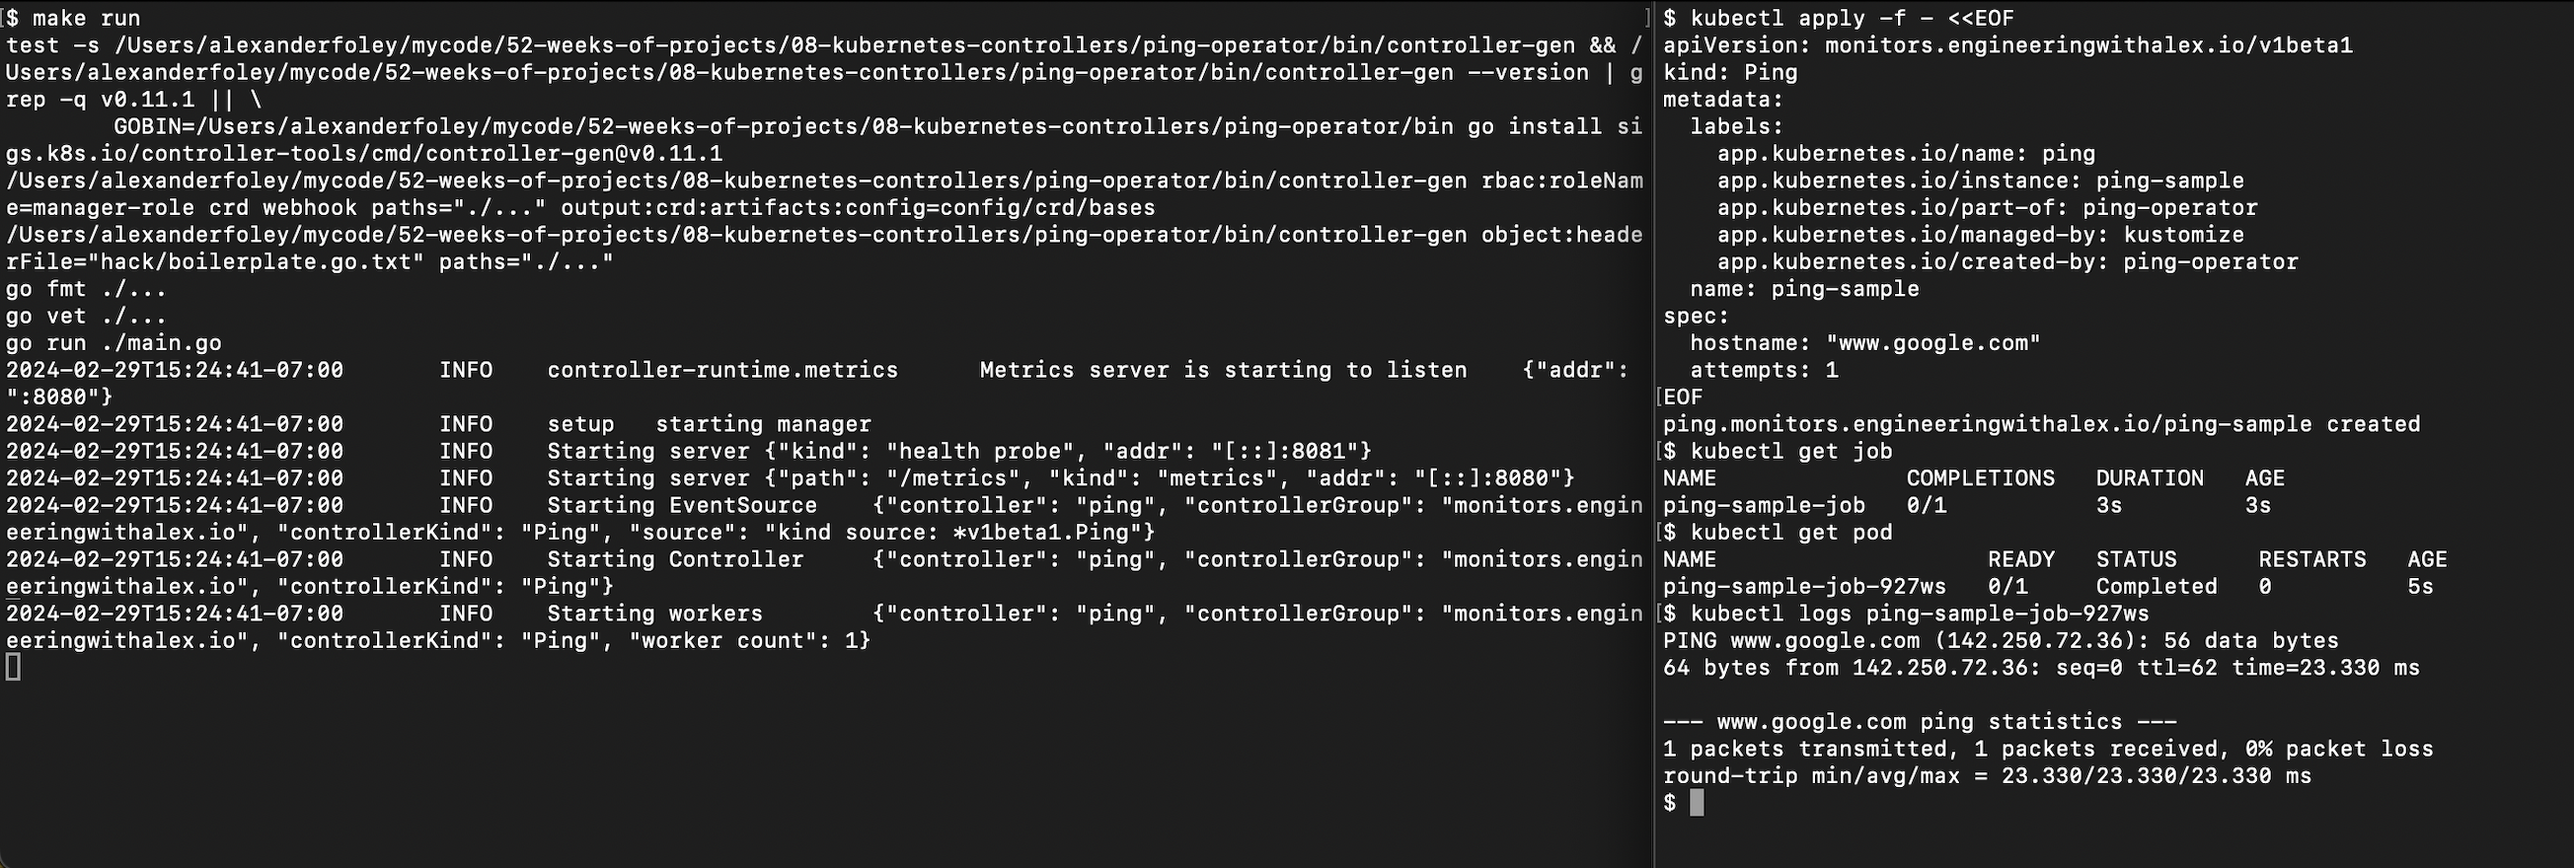
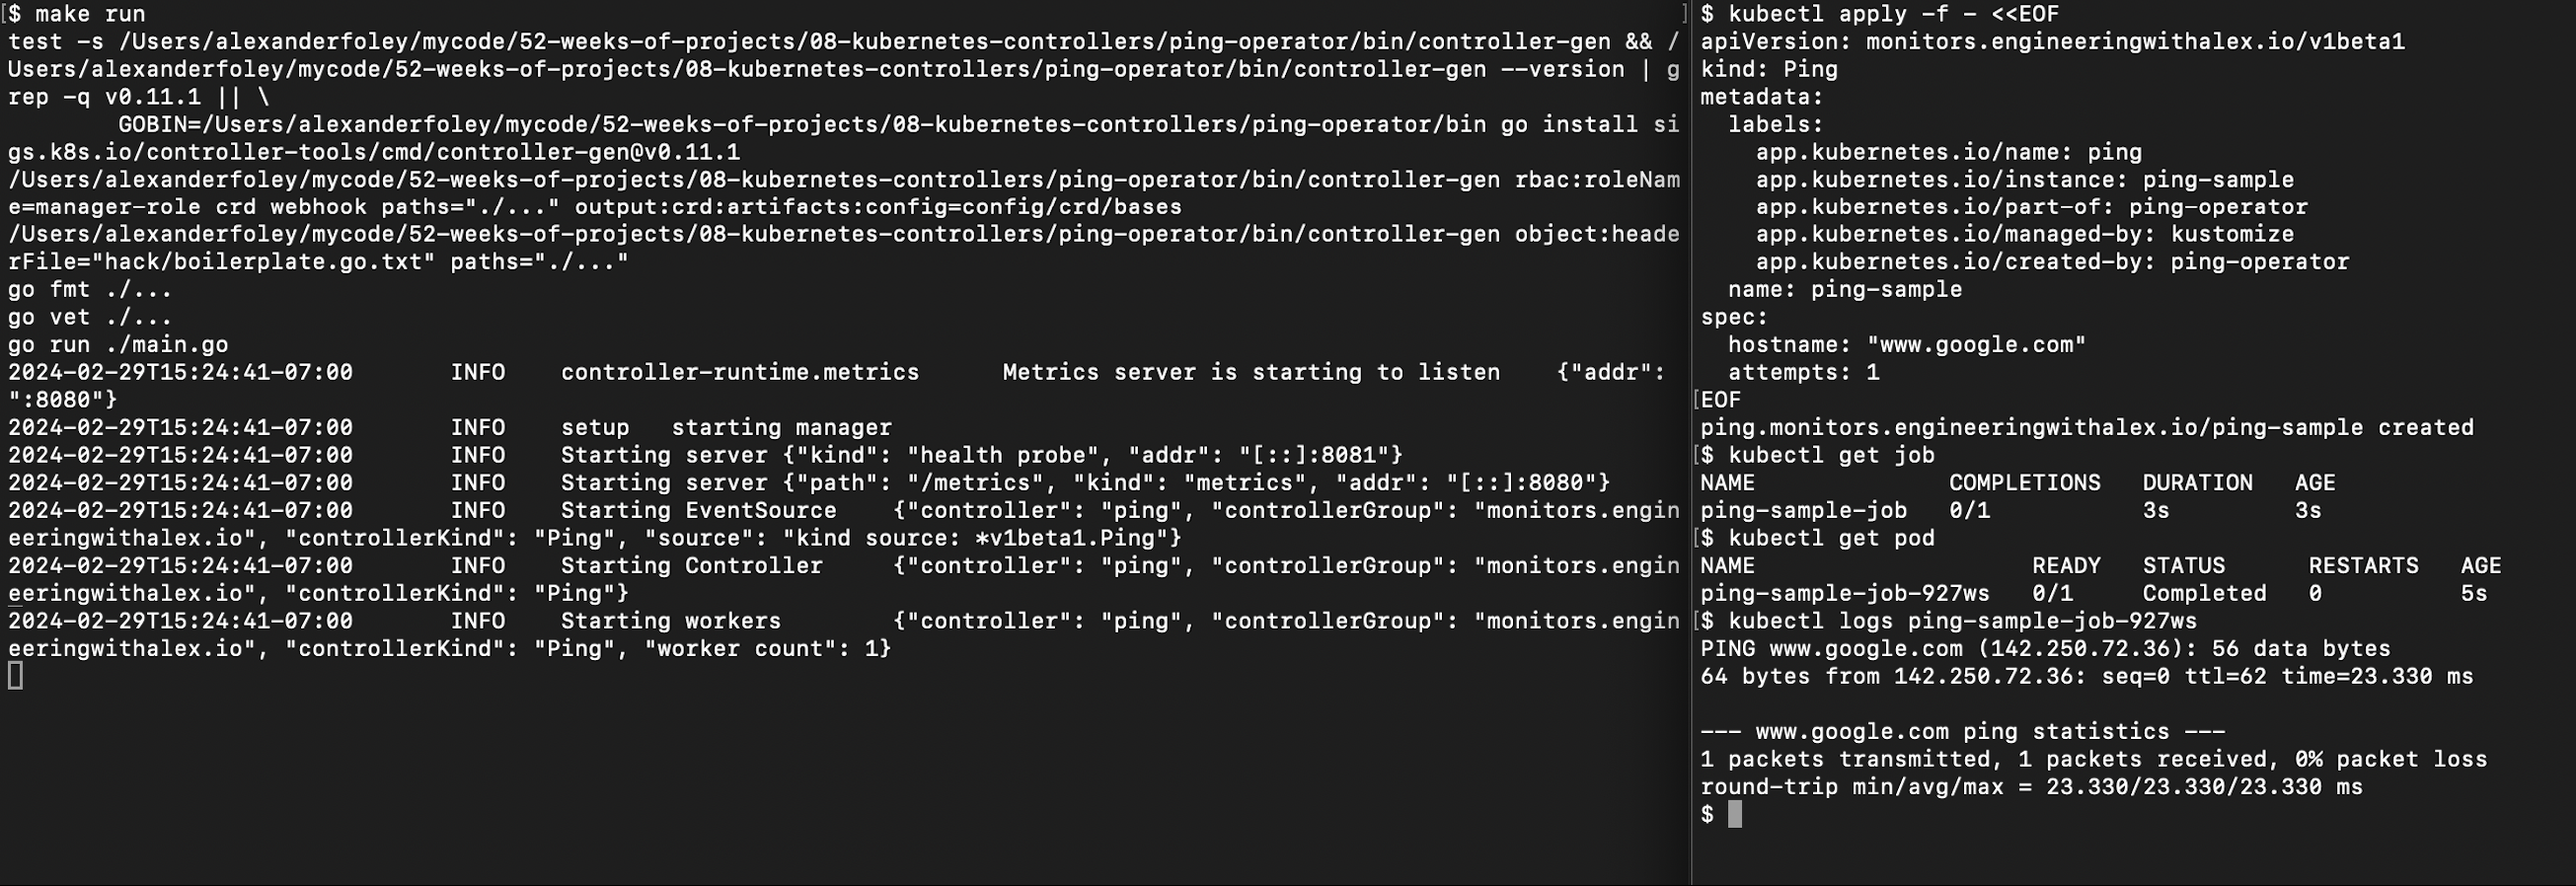
chore: Adding thumbnail

Changed region(s): [[0.0, 0.0, 0.9628, 0.9511]]

diff --git a/08-kubernetes-controllers/README.md b/08-kubernetes-controllers/README.md
@@ -1,6 +1,8 @@
 # Building A Custom Kubernetes Operator
 ## How The Operator-SDK Makes It Wicked Easy
 
+![Thumbnail](./images/thumbnail.png)
+
 If you're in the kubernetes space, either professionally or personally, 
 you've probably heard of the term `operator` or `controller`. You've 
 probably heard people say "Install <XYZ> with the operator" or 
